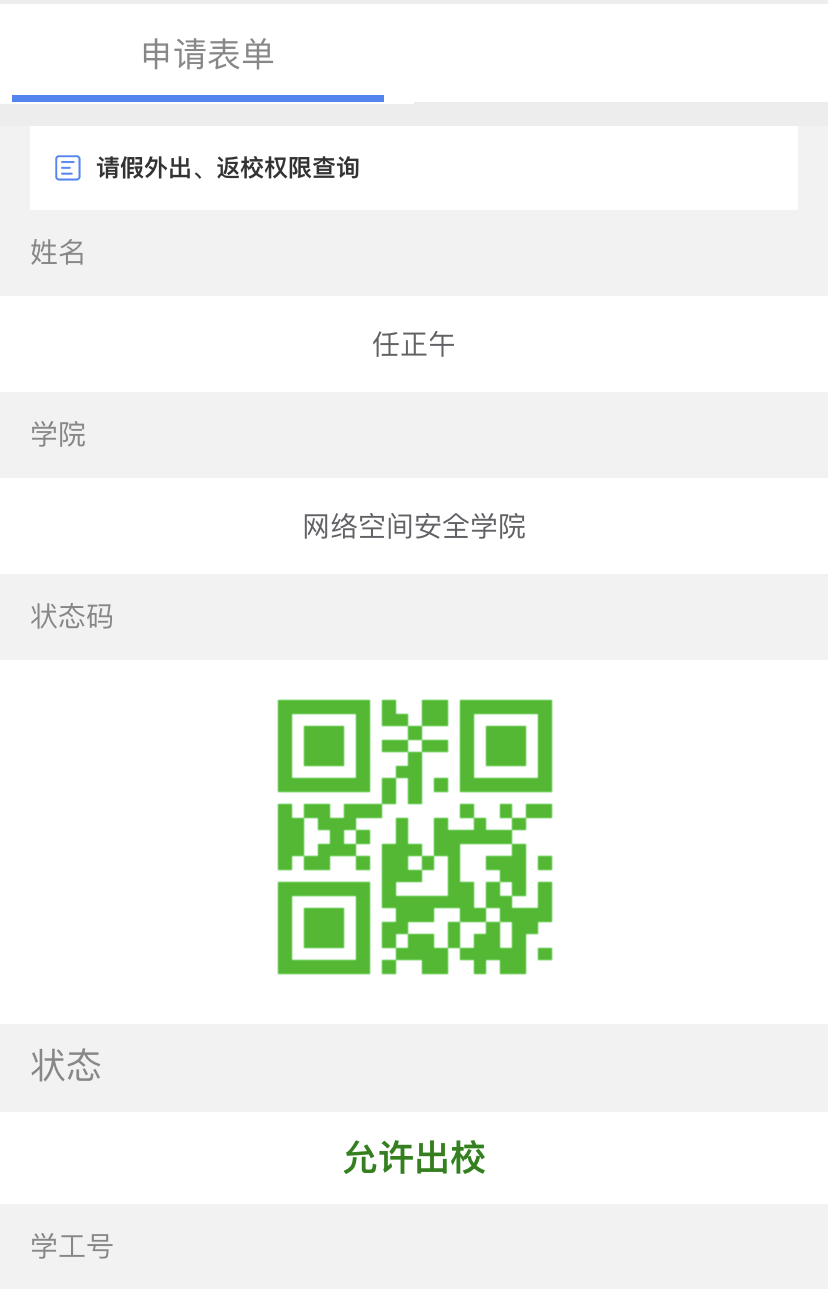
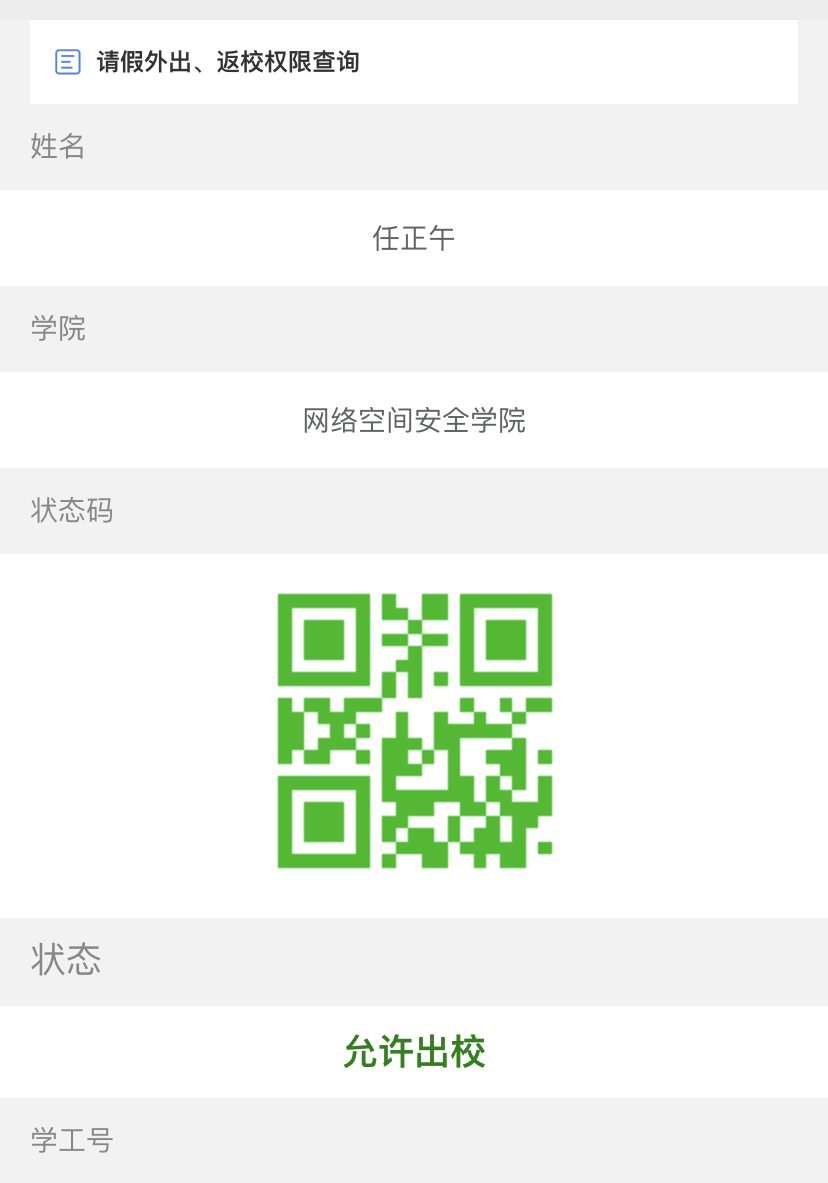
出入证

diff --git a/src/School.js b/src/School.js
@@ -3,21 +3,53 @@ import Helmet from 'react-helmet';
 import './School.css'
 
 class School extends React.Component{
+    constructor(props) {
+        super(props);
+        this.state = {
+            getTime:''
+        };
+    }
+
+    componentDidMount(){
+        fetch('http://www.chewingtogether.com:8085/school',{
+            // post提交
+            method:"GET",
+            credentials:"include",
+            headers:{
+                "Content-type":"application/json"
+            }})
+            .then(res => {
+                return res.json()
+            }).then(resdata => {
+            if(resdata.hasOwnProperty("message")) {
+                alert(resdata.message)
+            } else {
+                this.setState({getTime: resdata})
+            }
+        })
+    }
+
     render() {
         return (
             <>
             <Helmet>
                 <title>请假外出、返校权限查询通行码</title>
             </Helmet>
-            <div>
+            <div className="School-head">
+                <img className="School-div" src={require("../public/img/head.png")}/>
+            </div>
+            <div className="School-content">
                 <img className="School-div" src={require("../public/img/uppart.png")}/>
                 <img className="School-div" src={require("../public/img/midpart.png")}/>
-            </div>
             <div className="School-time">
-                <p>123</p>
+                <p>{this.state.getTime}</p>
             </div>
             <div>
-                <img className="School-div" src={require("../public/img/bottompart.png")}/>
+                    <img className="School-div" src={require("../public/img/bottompart.png")}/>
+            </div>
+            </div>
+            <div className="School-tail">
+                <img className="School-div" src={require("../public/img/tail.png")}/>
             </div>
             </>
         );

diff --git a/src/School.css b/src/School.css
@@ -2,6 +2,27 @@
     text-align: center;
 }
 
+.School-head{
+    z-index: 99999;
+    width: 100%;
+    float: top;
+    position:fixed;
+}
+
+.School-tail{
+    z-index: 99999;
+    width: 100%;
+    position: fixed;
+    bottom: 0;
+}
+
+.School-content{
+    position: absolute;
+    top: 6%;
+    height: 80%;
+    overflow: scroll;
+}
+
 .School-div{
     width: 100%;
 }
